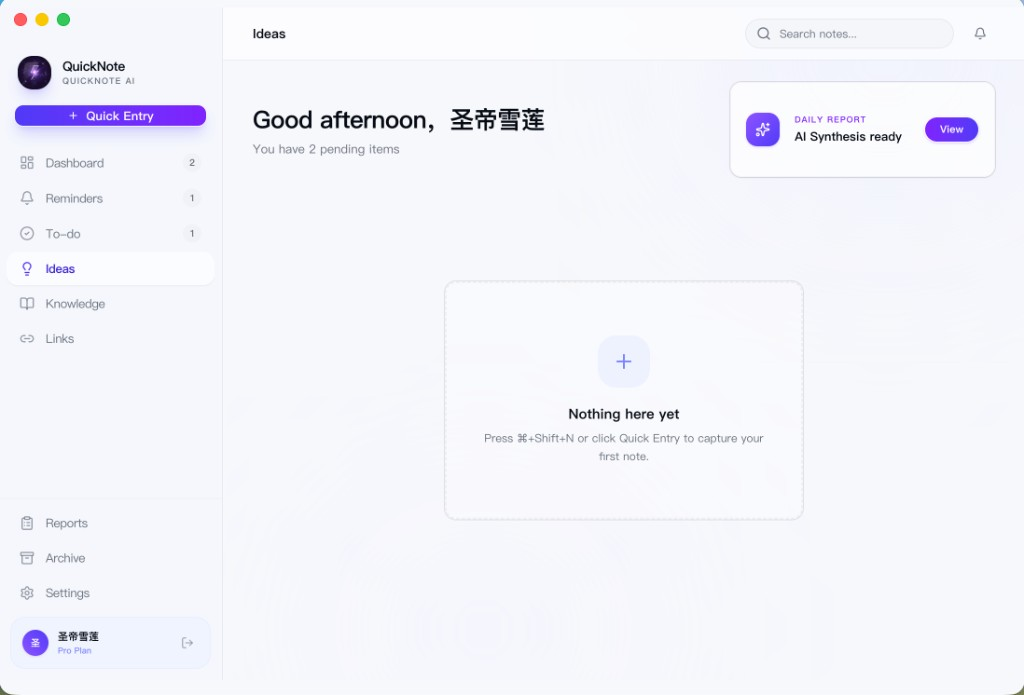
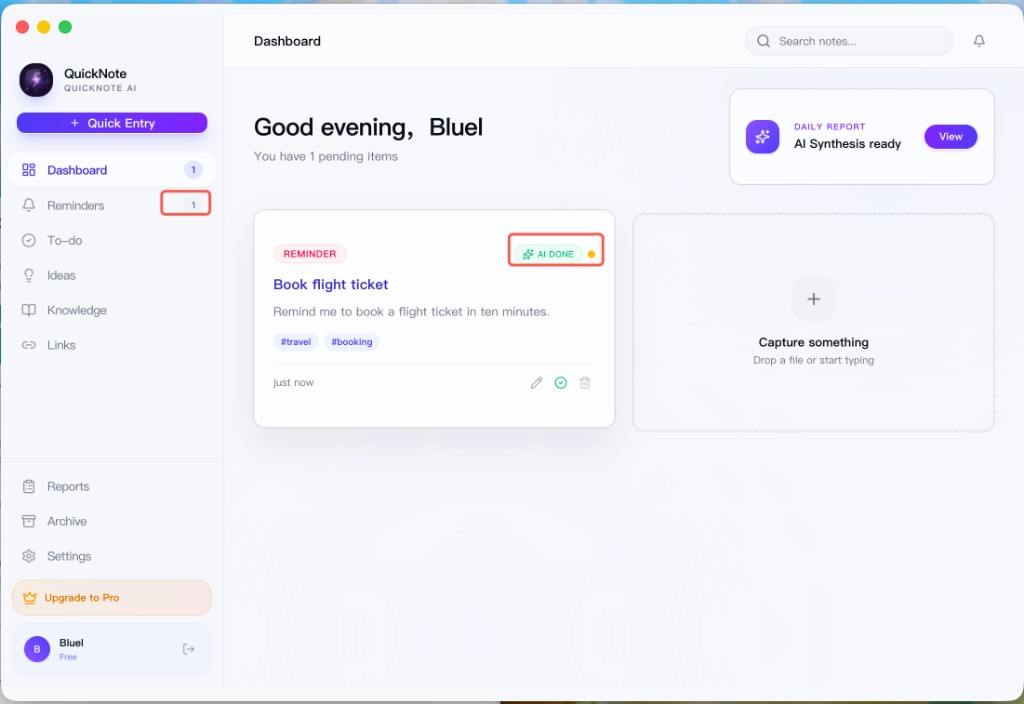
Add screenshot gallery with 4 real app screenshots
Replace single hero screenshot with Dashboard view; add gallery
section showcasing Quick Capture, Reminders, and Settings screens.

Made-with: Cursor

diff --git a/index.html b/index.html
@@ -226,6 +226,63 @@
       letter-spacing: 0.1em;
     }
 
+    /* ── Gallery ── */
+    .gallery {
+      max-width: 1100px;
+      margin: 0 auto;
+      padding: 40px 32px 80px;
+    }
+    .gallery-heading {
+      text-align: center;
+      margin-bottom: 36px;
+    }
+    .gallery-heading h2 {
+      font-size: clamp(24px, 3vw, 32px);
+      font-weight: 800;
+      letter-spacing: -0.03em;
+      margin-bottom: 8px;
+    }
+    .gallery-heading p {
+      font-size: 14px;
+      color: var(--text-muted);
+    }
+    .gallery-grid {
+      display: grid;
+      grid-template-columns: repeat(2, 1fr);
+      gap: 20px;
+    }
+    .gallery-item {
+      border-radius: 16px;
+      overflow: hidden;
+      box-shadow: 0 8px 32px rgba(0, 0, 0, 0.08), 0 0 0 1px rgba(0, 0, 0, 0.03);
+      transition: all 0.3s;
+      position: relative;
+    }
+    .gallery-item:hover {
+      transform: translateY(-4px);
+      box-shadow: 0 16px 48px rgba(108, 60, 224, 0.12), 0 0 0 1px rgba(108, 60, 224, 0.08);
+    }
+    .gallery-item img {
+      width: 100%;
+      display: block;
+    }
+    .gallery-label {
+      position: absolute;
+      bottom: 12px;
+      left: 12px;
+      background: rgba(26, 21, 51, 0.85);
+      backdrop-filter: blur(8px);
+      color: #fff;
+      font-size: 11px;
+      font-weight: 700;
+      padding: 6px 14px;
+      border-radius: 8px;
+      letter-spacing: 0.02em;
+    }
+    @media (max-width: 768px) {
+      .gallery-grid { grid-template-columns: 1fr; }
+    }
+
     /* ── Features ── */
     .features {
       max-width: 1100px;
@@ -644,6 +701,32 @@
     </div>
     <div class="hero-screenshot animate-in delay-4">
       <img src="screenshot.png" alt="QuickNote AI — Dashboard" />
+    </div>
+  </section>
+
+  <!-- Gallery -->
+  <section class="gallery" id="gallery">
+    <div class="gallery-heading">
+      <h2>See QuickNote AI in Action</h2>
+      <p>From quick capture to smart organization — a seamless experience</p>
+    </div>
+    <div class="gallery-grid">
+      <div class="gallery-item">
+        <img src="screenshot.png" alt="Dashboard — AI-classified notes at a glance" />
+        <span class="gallery-label">Dashboard</span>
+      </div>
+      <div class="gallery-item">
+        <img src="screenshot-capture.png" alt="Quick Capture — input anything, anytime" />
+        <span class="gallery-label">Quick Capture</span>
+      </div>
+      <div class="gallery-item">
+        <img src="screenshot-reminders.png" alt="Reminders — AI-parsed timed notifications" />
+        <span class="gallery-label">Reminders</span>
+      </div>
+      <div class="gallery-item">
+        <img src="screenshot-settings.png" alt="Settings — bring your own AI model" />
+        <span class="gallery-label">Settings</span>
+      </div>
     </div>
   </section>
 
